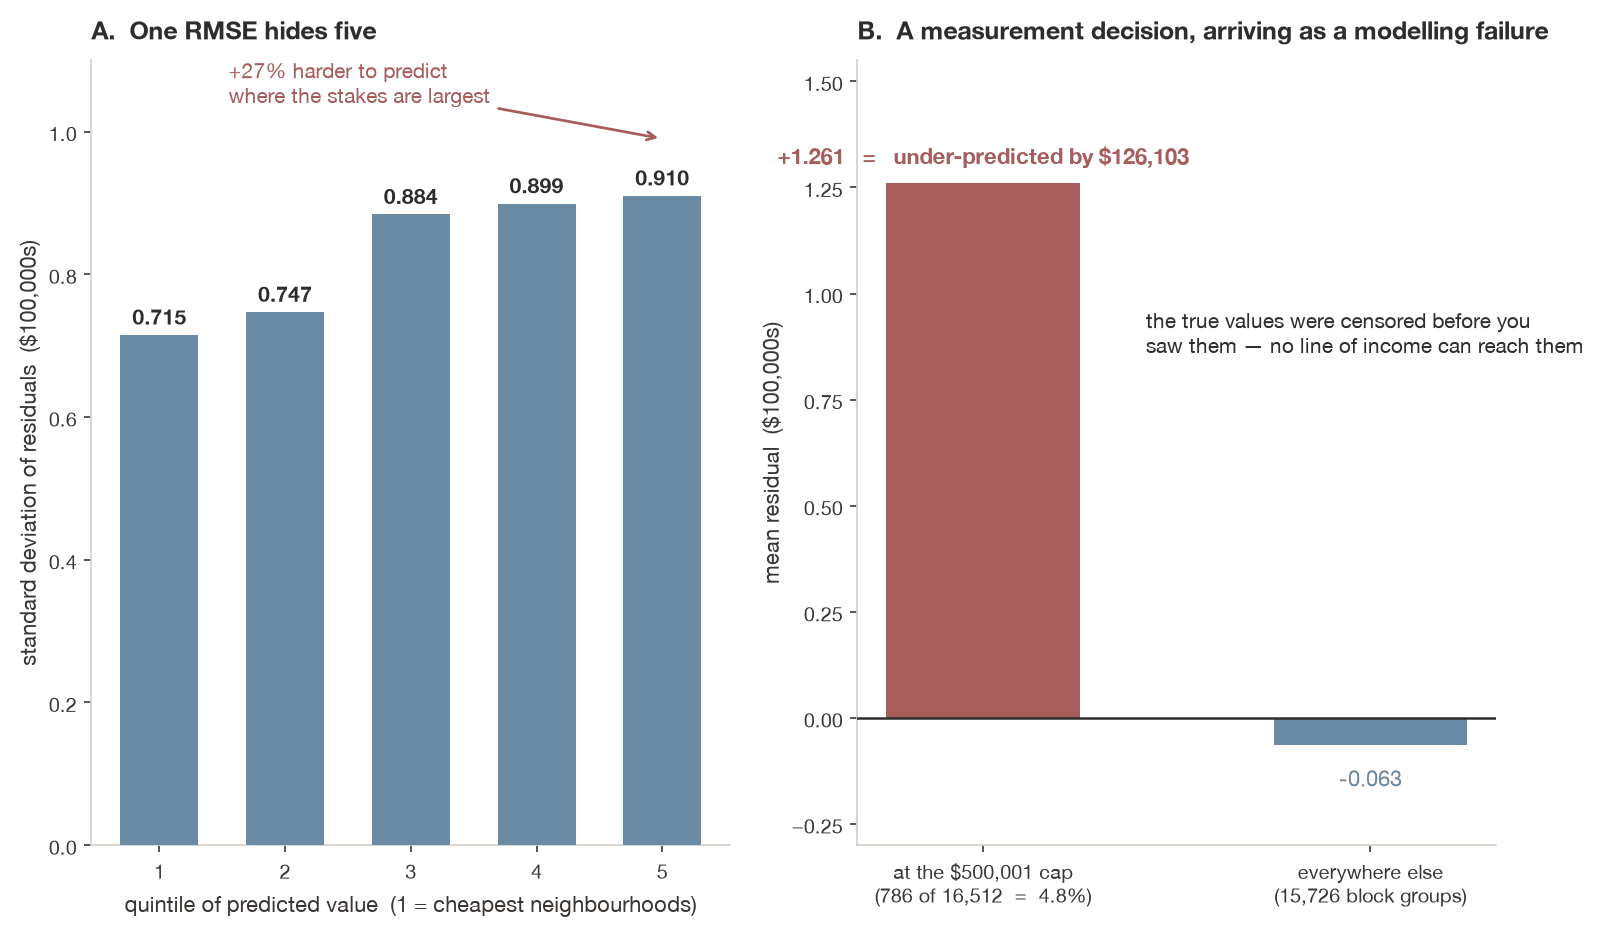
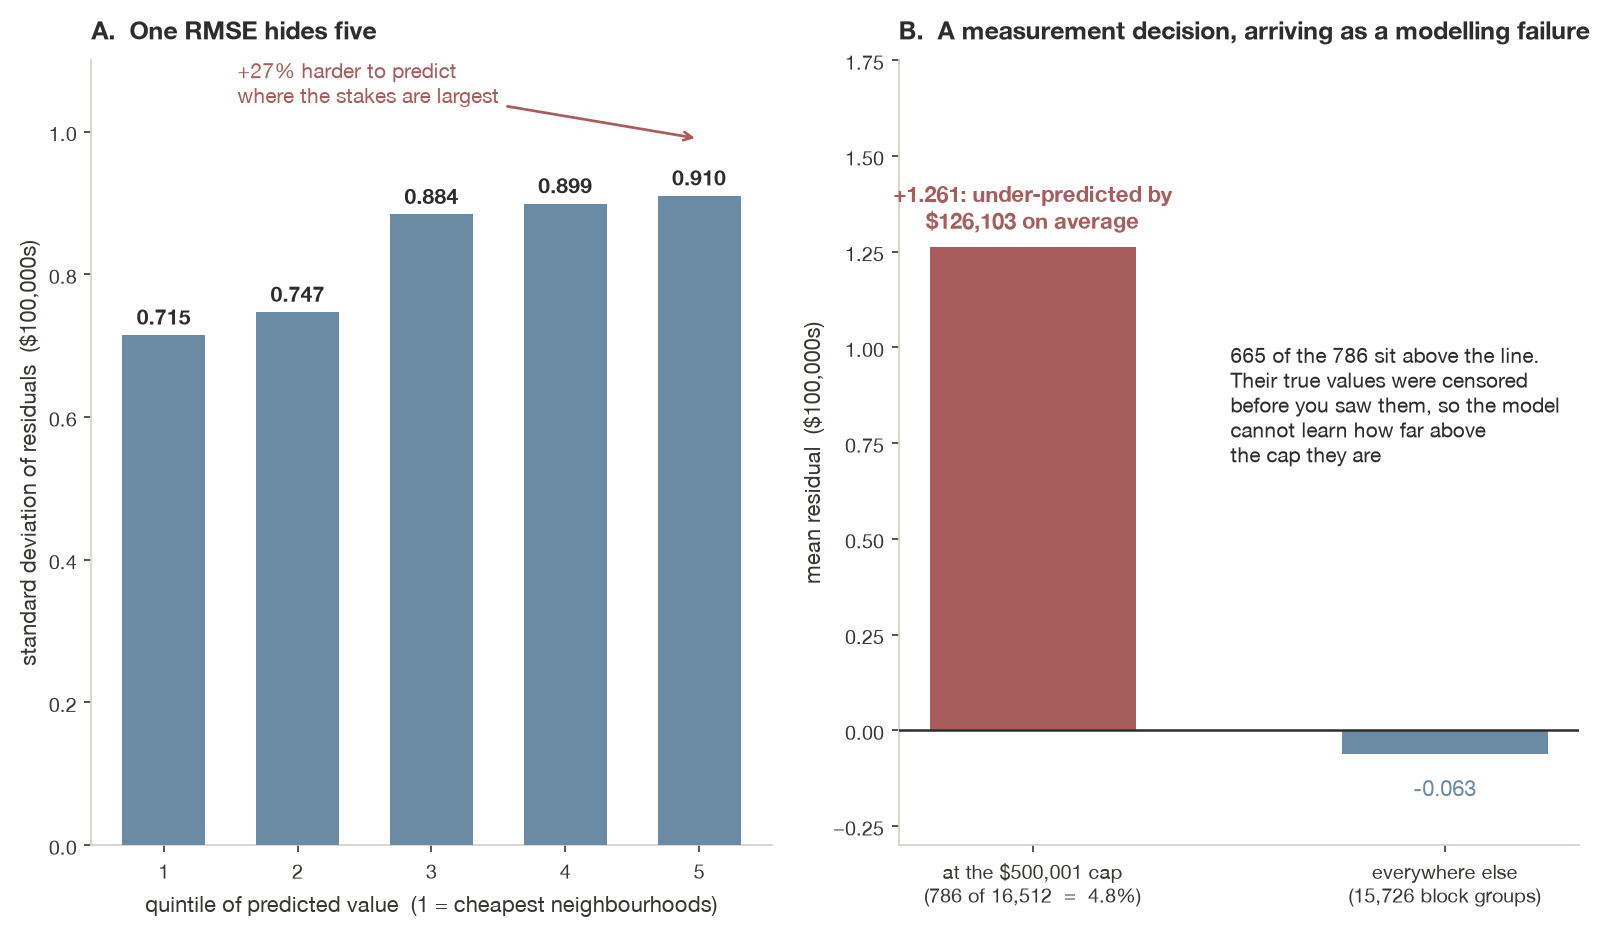
T11: Poll 4 option C wording, LAG ORDER BY line (26 Oct review). T12: training error and R² pick degree 9; $4.5M is RMSE from 40 out-of-range rows; one block group; r2-vs-rmse overfit wording; figure 003 panel B (665 of 786 above the line)

diff --git a/ch12-ols-prediction/index.html b/ch12-ols-prediction/index.html
@@ -1,7 +1,7 @@
 <!doctype html>
 <html lang="en">
 <head>
-<meta name="deck-build" content="public; speaker notes removed by strip_notes.py; out=659462bd39a4a3316627c38b2c40168d">
+<meta name="deck-build" content="public; speaker notes removed by strip_notes.py; out=ae2eb4ff5601bd470ad7111ddab9f610">
   <meta charset="utf-8">
   <meta name="viewport" content="width=device-width, initial-scale=1.0">
   <title>Predictive Modeling: OLS as the Line of Best Fit</title>
@@ -368,7 +368,7 @@ Slope     (beta_1 hat): 0.4179</code></pre>
         </div>
         <p style="text-align: center; font-size: 16pt; margin: 14px 0 4px;">$$\text{MSE} = \frac{1}{n}\sum_{i=1}^{n}(y_i - \hat{y}_i)^2, \qquad \text{RMSE} = \sqrt{\text{MSE}} \qquad\qquad R^2 = 1 - \frac{\sum_{i=1}^n (y_i - \hat{y}_i)^2}{\sum_{i=1}^n (y_i - \bar{y})^2}$$</p>
         <div class="key-result" style="margin-top: 8px;">
-          <p style="font-size: 14.5pt; line-height: 1.6;"><strong>Reading:</strong> MSE is the average squared miss; square-root it and you are back in the outcome's units. \(R^2\) is your squared error divided by the dumb baseline's, subtracted from one. \(R^2 = 0.5\) means half the baseline's squared error; \(R^2 = 0\) means no better than the mean. <strong>On <em>test</em> data \(R^2\) can go negative</strong> &mdash; which sounds impossible until you meet an overfitted model.</p>
+          <p style="font-size: 14.5pt; line-height: 1.6;"><strong>Reading:</strong> MSE is the average squared miss; square-root it and you are back in the outcome's units. \(R^2\) is your squared error divided by the dumb baseline's, subtracted from one. \(R^2 = 0.5\) means half the baseline's squared error; \(R^2 = 0\) means no better than the mean. <strong>On <em>test</em> data \(R^2\) can go negative</strong> &mdash; which happens to a model that has memorised the noise in its training rows. We build one later today.</p>
         </div>
       </div>
     </section>
@@ -588,7 +588,7 @@ for degree in [1, 2, 3, 5, 7, 9]:
             <div class="poll-option" data-choice="A" style="background: #f0f5f8; padding: 15px 20px; border-radius: 8px; cursor: pointer; transition: all 0.2s; border: 3px solid transparent;">A) Falls too, to roughly 0.6 &mdash; flexibility helps</div>
             <div class="poll-option" data-choice="B" style="background: #f0f5f8; padding: 15px 20px; border-radius: 8px; cursor: pointer; transition: all 0.2s; border: 3px solid transparent;">B) Stays about the same, near 0.85</div>
             <div class="poll-option" data-choice="C" style="background: #f0f5f8; padding: 15px 20px; border-radius: 8px; cursor: pointer; transition: all 0.2s; border: 3px solid transparent;">C) Rises somewhat, to about 1.5</div>
-            <div class="poll-option" data-choice="D" style="background: #f0f5f8; padding: 15px 20px; border-radius: 8px; cursor: pointer; transition: all 0.2s; border: 3px solid transparent;">D) Rises to roughly 45 &mdash; a typical error of &#36;4.5 million</div>
+            <div class="poll-option" data-choice="D" style="background: #f0f5f8; padding: 15px 20px; border-radius: 8px; cursor: pointer; transition: all 0.2s; border: 3px solid transparent;">D) Rises to roughly 45 &mdash; an RMSE of about &#36;4.5 million</div>
           </div>
         </div>
       </section>
@@ -609,14 +609,14 @@ for degree in [1, 2, 3, 5, 7, 9]:
           </table>
           <div>
             <p style="font-size: 14.5pt; line-height: 1.55;"><strong>Read the two columns in opposite directions.</strong> Training RMSE falls monotonically &mdash; it <em>has</em> to. This is the "\(R^2\) cannot decrease" result, seen from the other side.</p>
-            <p style="font-size: 14.5pt; line-height: 1.55; margin-top: 8px;">Test RMSE is flat through degree 3, then <strong>shoots up</strong>. At degree 9 the typical error is roughly <strong>&#36;4.5 million on houses worth around &#36;180,000</strong>. Predicting the training mean for every house (test RMSE 1.14) would have been about 39 times better.</p>
+            <p style="font-size: 14.5pt; line-height: 1.55; margin-top: 8px;">Test RMSE is flat through degree 3, then <strong>shoots up</strong>. At degree 9 the RMSE is about <strong>&#36;4.5 million</strong>, almost all of it from the 40 test block groups outside the training rows&rsquo; income range; the median miss is still about &#36;48,000, as for the straight line. Predicting the training mean for every house (test RMSE 1.14) would have been about 39 times better.</p>
           </div>
         </div>
       </section>
     </section>
 
     <section id="fig-overfit" style="padding: 24px 42px;">
-      <h2 style="font-size: 24pt;"><i class="fa-solid fa-explosion" style="color: var(--danger-color);"></i> Every In-Sample Diagnostic Selects the Worst Model Here</h2>
+      <h2 style="font-size: 24pt;"><i class="fa-solid fa-explosion" style="color: var(--danger-color);"></i> Training Error and R² Select the Worst Model Here</h2>
       <div class="content" style="text-align: center;">
         <img src="figures/figure_004_overfitting.png" alt="Training RMSE and test RMSE against polynomial degree on a logarithmic vertical axis. Training RMSE creeps down from 0.6186 to 0.5863 across degrees 1 to 9, while test RMSE is flat near 0.85 through degree 3 then rises to 1.5008, 7.1108 and finally 45.0271." style="max-height: 440px; width: auto;">
         <p style="font-size: 14pt; margin-top: 8px; line-height: 1.5;">The high-degree model bends to pass close to each of those 60 training points &mdash; <strong>including the part of each point that is noise</strong>. Noise does not repeat in the test set, so the bends do not help there. They hurt, because a wiggly curve <strong>extrapolates wildly</strong> the moment it meets an \(x\) outside its training range.</p>
@@ -700,7 +700,7 @@ pred = ols.get_prediction(new).summary_frame(alpha=0.05)</code></pre>
           <div style="background: #fdf0ea; border-radius: 10px; padding: 14px 18px; text-align: center;"><p style="font-size: 26pt; font-weight: 700; color: var(--accent-color); line-height: 1.1;">&#36;328,000</p><p style="font-size: 13pt; color: var(--muted-color); margin-top: 4px;">PI width &mdash; more than a hundred times wider</p></div>
         </div>
         <div class="fragment fade-up misconception" style="margin-top: 14px;">
-          <p style="font-size: 15.5pt; line-height: 1.55;">Report the CI to someone deciding what to pay for a specific property and you have told them you know the price to within &#36;3,000, when your actual predictive uncertainty runs from &#36;90,000 to &#36;418,000. <strong>That is a different claim altogether.</strong></p>
+          <p style="font-size: 15.5pt; line-height: 1.55;">Report the CI to someone deciding what to pay in one block group and you have told them you know the price to within &#36;3,000, when your actual predictive uncertainty runs from &#36;90,000 to &#36;418,000. <strong>That is a different claim altogether.</strong></p>
         </div>
       </div>
     </section>
@@ -828,7 +828,7 @@ Improvement:                       26.4%</code></pre>
           <div style="display: grid; grid-template-columns: 44px 1fr; align-items: center; background: #f8f6f3; border-radius: 8px; padding: 11px 18px; border-left: 4px solid var(--secondary-color);"><p style="font-size: 17pt; font-weight: 700; color: var(--secondary-color);">1</p><p style="font-size: 14.5pt; line-height: 1.45;">A regression can <strong>estimate a parameter</strong> or <strong>generate a prediction</strong>; the algebra is identical and almost everything else differs &mdash; which variables belong, which metric decides success, what you report.</p></div>
           <div style="display: grid; grid-template-columns: 44px 1fr; align-items: center; background: #f8f6f3; border-radius: 8px; padding: 11px 18px; border-left: 4px solid var(--secondary-color);"><p style="font-size: 17pt; font-weight: 700; color: var(--secondary-color);">2</p><p style="font-size: 14.5pt; line-height: 1.45;">OLS minimises <strong>squared vertical distances</strong>, which gives it a closed form, forces it through the sample means, and makes it as outlier-sensitive as the arithmetic mean.</p></div>
           <div style="display: grid; grid-template-columns: 44px 1fr; align-items: center; background: #f8f6f3; border-radius: 8px; padding: 11px 18px; border-left: 4px solid var(--accent-color);"><p style="font-size: 17pt; font-weight: 700; color: var(--accent-color);">3</p><p style="font-size: 14.5pt; line-height: 1.45;">In-sample \(R^2\) <strong>cannot decrease</strong> when a predictor is added &mdash; not even a column of random noise &mdash; so in-sample fit measures flexibility as much as accuracy. <strong>Adjusted \(R^2\) is not the fix.</strong></p></div>
-          <div style="display: grid; grid-template-columns: 44px 1fr; align-items: center; background: #f8f6f3; border-radius: 8px; padding: 11px 18px; border-left: 4px solid var(--danger-color);"><p style="font-size: 17pt; font-weight: 700; color: var(--danger-color);">4</p><p style="font-size: 14.5pt; line-height: 1.45;">Holding out a test set reveals what in-sample error conceals: <strong>training error falls monotonically while test error eventually explodes</strong>, and every in-sample diagnostic will select the worst model in that sequence.</p></div>
+          <div style="display: grid; grid-template-columns: 44px 1fr; align-items: center; background: #f8f6f3; border-radius: 8px; padding: 11px 18px; border-left: 4px solid var(--danger-color);"><p style="font-size: 17pt; font-weight: 700; color: var(--danger-color);">4</p><p style="font-size: 14.5pt; line-height: 1.45;">Holding out a test set reveals what in-sample error conceals: <strong>training error falls monotonically while test error eventually explodes</strong>, and training error and R² will select the worst model in that sequence.</p></div>
           <div style="display: grid; grid-template-columns: 44px 1fr; align-items: center; background: #f8f6f3; border-radius: 8px; padding: 11px 18px; border-left: 4px solid var(--success-color);"><p style="font-size: 17pt; font-weight: 700; color: var(--success-color);">5</p><p style="font-size: 14.5pt; line-height: 1.45;">A prediction needs an uncertainty statement, and the <strong>prediction interval is far wider than the confidence interval</strong> &mdash; more data shrinks the second and barely touches the first.</p></div>
         </div>
       </div>

diff --git a/ch11-sql-for-economists/index.html b/ch11-sql-for-economists/index.html
@@ -1,7 +1,7 @@
 <!doctype html>
 <html lang="en">
 <head>
-<meta name="deck-build" content="public; speaker notes removed by strip_notes.py; out=f4bf7041fae673b4b0a9678e38c16a74">
+<meta name="deck-build" content="public; speaker notes removed by strip_notes.py; out=9b487359fb2a67945d6574148b5128bc">
   <meta charset="utf-8">
   <meta name="viewport" content="width=device-width, initial-scale=1.0">
   <title>SQL for Economists</title>
@@ -1181,7 +1181,7 @@ FROM customers c
             <p style="font-size: 14.5pt;"><code>PARTITION BY country</code> <strong>is</strong> <code>groupby("country")</code>. Omit it and the window is the entire table.</p>
           </div>
           <div class="fragment fade-up" data-fragment-index="3" style="background: #f8f6f3; border-radius: 8px; padding: 12px 20px; border-left: 4px solid var(--danger-color);">
-            <p style="font-size: 14.5pt;"><code>ORDER BY year</code> <em>inside</em> the <code>OVER (...)</code> tells the database what &ldquo;previous&rdquo; <strong>means</strong>. Pandas takes this from the DataFrame's row order &mdash; a source of hidden bugs. SQL makes you say it.</p>
+            <p style="font-size: 14.5pt;"><code>ORDER BY year</code> <em>inside</em> the <code>OVER (...)</code> tells the database what &ldquo;previous&rdquo; <strong>means</strong>. Pandas takes this from the DataFrame's row order &mdash; a source of hidden bugs. SQL lets you say it, and you should: leave <code>ORDER BY</code> out and &ldquo;previous&rdquo; follows whatever order the rows happen to be in, with no error.</p>
           </div>
         </div>
         <p style="font-size: 13.5pt; margin-top: 12px; color: var(--muted-color); font-style: italic; text-align: center;">That inner <code>ORDER BY</code> is unrelated to the query's own <code>ORDER BY</code> at the bottom, which only controls how the output prints.</p>
@@ -1433,7 +1433,7 @@ ORDER BY year</code></pre>
         <div class="poll-grid" data-poll-id="ch11-econ3916-poll-4" style="display: grid; grid-template-columns: 1fr 1fr; gap: 13px; margin-top: 16px; font-size: 15pt;">
           <div class="poll-option" data-choice="A" style="background: #f0f5f8; padding: 15px 20px; border-radius: 8px; cursor: pointer; transition: all 0.2s; border: 3px solid transparent;">A) 8 &mdash; nothing was excluded</div>
           <div class="poll-option" data-choice="B" style="background: #f0f5f8; padding: 15px 20px; border-radius: 8px; cursor: pointer; transition: all 0.2s; border: 3px solid transparent;">B) 6 &mdash; the two cancelled orders were removed</div>
-          <div class="poll-option" data-choice="C" style="background: #f0f5f8; padding: 15px 20px; border-radius: 8px; cursor: pointer; transition: all 0.2s; border: 3px solid transparent;">C) 4 &mdash; the cancelled rows <em>and</em> the unknown-status rows</div>
+          <div class="poll-option" data-choice="C" style="background: #f0f5f8; padding: 15px 20px; border-radius: 8px; cursor: pointer; transition: all 0.2s; border: 3px solid transparent;">C) 4 &mdash; both the cancelled <em>and</em> the unknown-status rows are dropped</div>
           <div class="poll-option" data-choice="D" style="background: #f0f5f8; padding: 15px 20px; border-radius: 8px; cursor: pointer; transition: all 0.2s; border: 3px solid transparent;">D) 2 &mdash; only the cancelled rows survive</div>
         </div>
       </section>
